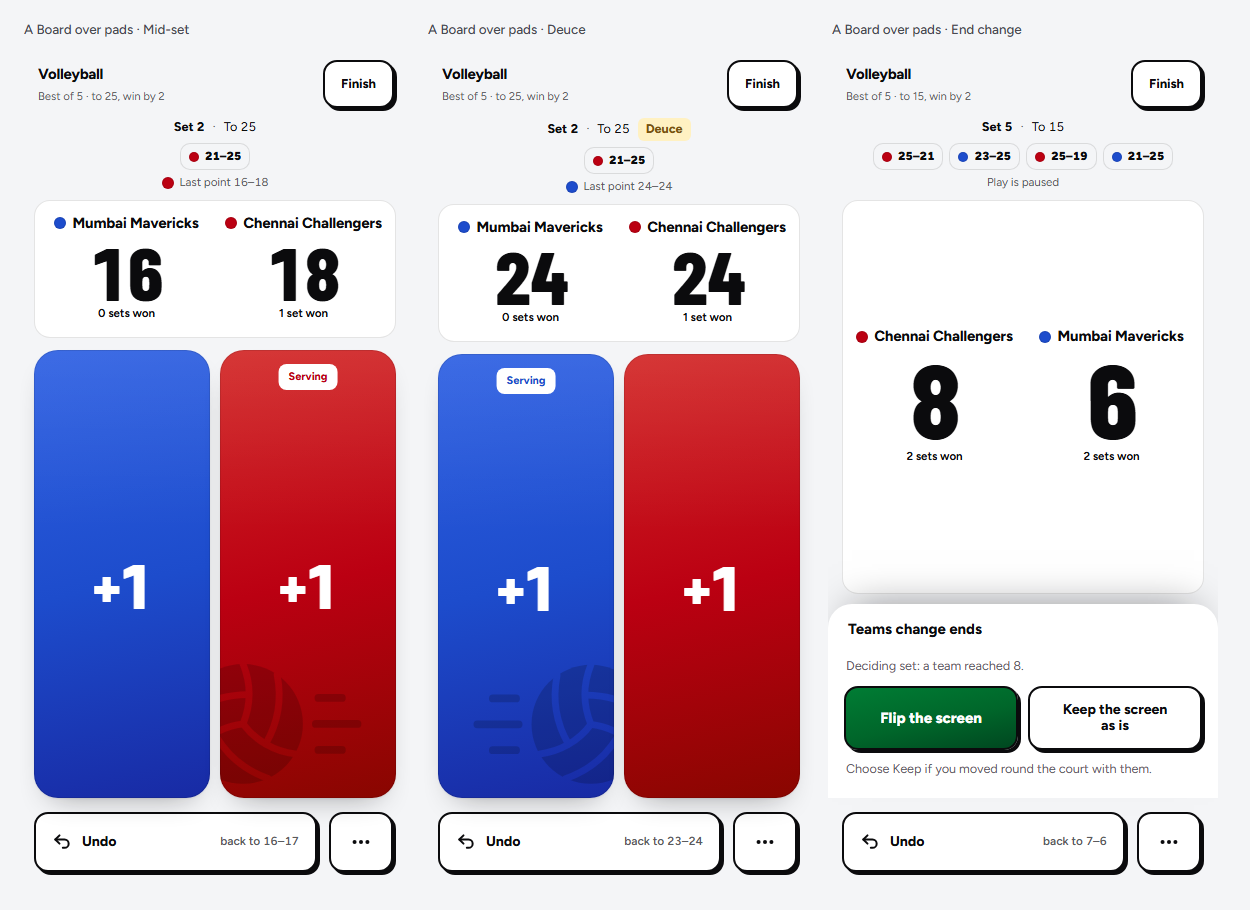
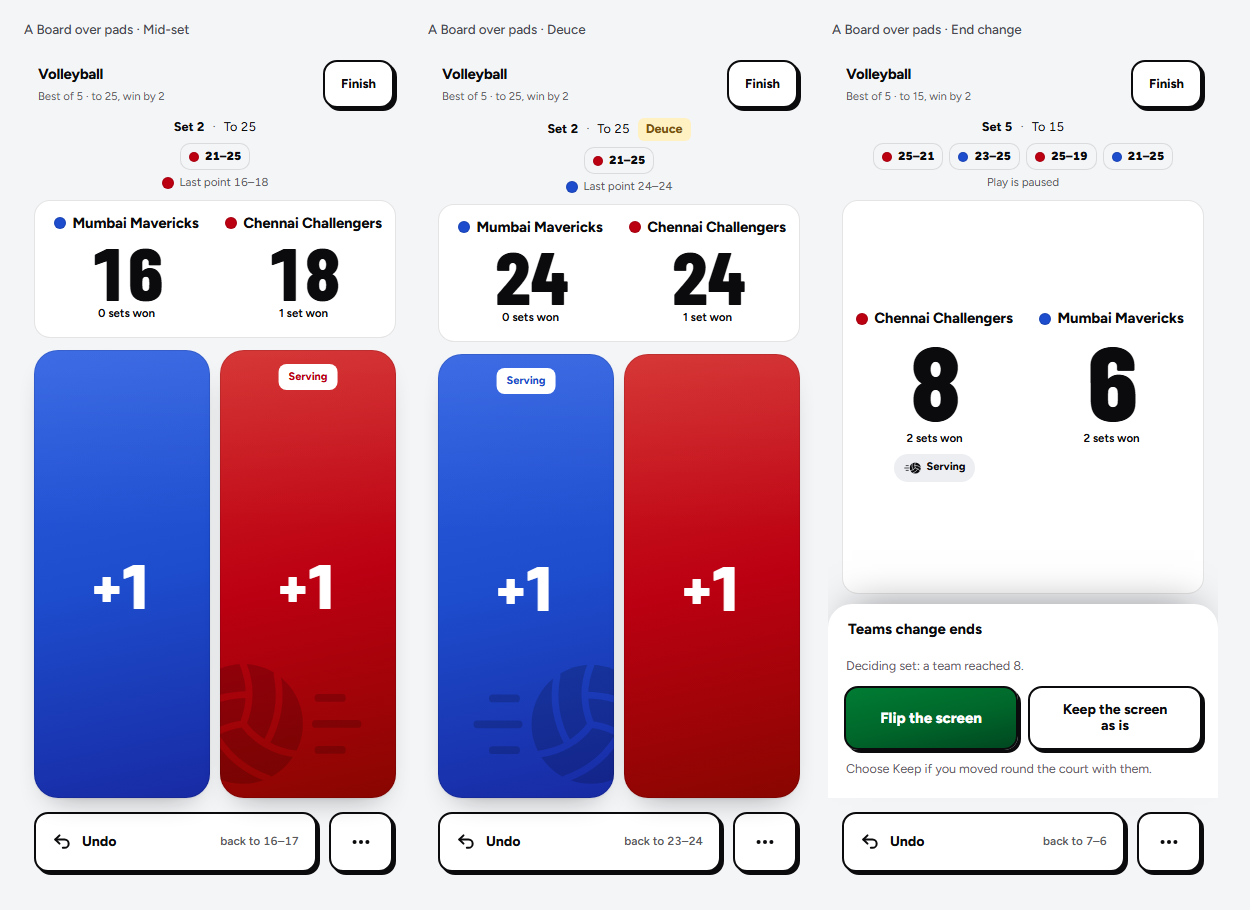
Sets prototype: keep the serve chip on A at end change and interval, drop Live badge at match over, equal name rows on A
A hid the serving pads during change and interval with no serve cue left; the board column
now keeps one serve chip. The spectator header shows Match over instead of Live once the
match ends. A's columns share row tracks so a two-line name at 360px keeps both scores level.

Changed region(s): [[0.6864, 0.3385, 0.9672, 0.5231]]

diff --git a/docs/plans/2026-11-13-board-redesign/sets/prototype.html b/docs/plans/2026-11-13-board-redesign/sets/prototype.html
@@ -2555,8 +2555,10 @@ body.bare .kd-frame { width: var(--fw, 390px); height: var(--fh, 844px); max-wid
 .kd .tsb-word { text-align: center; padding: 0 6px; line-height: 1.2; }
 
 /* A Board over pads */
-.kd-board { flex: none; display: grid; grid-template-columns: 1fr 1fr; gap: 10px; margin: 0 14px; padding: 10px 8px 12px; }
-.kd-col { display: flex; flex-direction: column; align-items: center; text-align: center; min-width: 0; padding: 4px 2px; }
+/* the two columns share four row tracks (name, score, word, chip), so a two-line name on one side
+   gives both name areas the same height and both scores the same baseline */
+.kd-board { flex: none; display: grid; grid-template-columns: 1fr 1fr; grid-template-rows: auto auto auto auto; column-gap: 10px; row-gap: 0; margin: 0 14px; padding: 10px 8px 12px; }
+.kd-col { display: grid; grid-row: span 4; grid-template-rows: subgrid; justify-items: center; align-items: center; text-align: center; min-width: 0; padding: 4px 2px; }
 .kd-col.is-pick { cursor: pointer; }
 .kd-colhead { display: flex; align-items: center; justify-content: center; max-width: 100%; }
 .kd-col .tsb-who { max-width: none; white-space: normal; overflow-wrap: anywhere; line-height: 1.15; text-align: center; }
@@ -3047,7 +3049,7 @@ function tapWord(st, t) {
 function header(st, o, finish = true) {
   const R = RULES[st.sport];
   const sub = st.phase === 'first' ? 'Pick the format and the first server' : `Best of ${st.bo} · to ${targetOf(st)}${R.cap ? ` · cap ${R.cap}` : `, win by ${R.winBy}`}`;
-  return `<header class="sb-top"><div class="sb-title"><b>${esc(R.title)}</b><small>${esc(sub)}</small></div>${o.live ? '<span class="sb-live">Live</span>' : ''}${finish ? `<button type="button" class="se-ctl sb-finish" data-act="finish"${st.phase === 'over' ? ' disabled' : ''}>Finish</button>` : ''}</header>`;
+  return `<header class="sb-top"><div class="sb-title"><b>${esc(R.title)}</b><small>${esc(sub)}</small></div>${o.live ? '<span class="sb-live">Live</span>' : o.ended ? '<span class="kit-live-paused">Match over</span>' : ''}${finish ? `<button type="button" class="se-ctl sb-finish" data-act="finish"${st.phase === 'over' ? ' disabled' : ''}>Finish</button>` : ''}</header>`;
 }
 
 function bar(st, o) {
@@ -3089,7 +3091,8 @@ function boardA(st) {
     const n = st.phase === 'over' ? st.wins[t] : t === 'A' ? st.a : st.b;
     let chip = '';
     if (st.phase === 'over' && st.winner === t) chip = '<span class="kit-chip">Winner</span>';
-    else if (st.phase === 'between') {
+    else if (st.phase === 'between' || st.phase === 'change' || st.phase === 'interval') {
+      // the pads are hidden while play is paused, so the board keeps the one serve chip
       const tg = serveTag(st, t);
       if (tg) chip = `<span class="kit-chip">${markSvg(st.sport)}${esc(tg)}</span>`;
       else if (pick) chip = '<span class="kit-chip">Tap to serve first</span>';
@@ -3224,7 +3227,6 @@ function liveView(st, o) {
   const hd = `<div class="kit-live-meta kd-lhead"><span>${R.unit} ${st.phase === 'over' ? st.games.length : st.g + 1}</span><span class="kd-lnums" style="grid-template-columns:${cols}">${st.games.map((_, i) => `<span>${i + 1}</span>`).join('')}${showNow ? '<span class="kd-nowlbl">Now</span>' : ''}</span></div>`;
   let foot = '';
   if (st.phase === 'first') foot = 'Match starts soon';
-  else if (st.phase === 'over') foot = 'Match over';
   else if (st.phase === 'between') foot = `Break. ${R.unit} ${st.g + 2} starts next`;
   const f = flagText(st);
   const paused = st.phase === 'change' ? 'End change' : st.phase === 'interval' ? 'Interval' : '';
@@ -3238,7 +3240,7 @@ function liveView(st, o) {
       <p class="kd-run">${n >= 2 ? `${sw(lw)}${n} in a row` : 'Points trading'}</p>`;
   }
   return `<div class="sb tsb kd kd-live" style="${teamStyle(st, o)}" data-phase="${st.phase}" data-sport="${st.sport}">
-    ${header(st, { ...o, live: true }, false)}
+    ${header(st, { ...o, live: st.phase !== 'over', ended: st.phase === 'over' }, false)}
     <div class="kd-livebody"><div class="kit-live-list">${hd}${row('A')}${row('B')}${footer}</div>
     <section class="sb-sheet-group kd-recent"><div class="kd-rhead"><b>Last 12 points</b><span class="kit-sub">oldest to newest</span></div>${recent}</section></div></div>`;
 }

diff --git a/docs/plans/2026-11-13-board-redesign/sets/README.md b/docs/plans/2026-11-13-board-redesign/sets/README.md
@@ -64,7 +64,9 @@ Nowhere new. Finish stays in the header, top right, the shipped `.se-ctl.sb-fini
 - The last-point line uses a swatch, not a team name.
 - Let (badminton, table tennis) sits in the bar between Undo and More. The More button is 56px wide there (it is 64px without Let), so Undo keeps its whole hint at 360px.
 - End change, between sets and match over dock above the bar instead of opening over the board.
-- At the break in A, "Serves first" is a chip in the board column, because the pads are gone then. In B it is the key tag.
+- In A, the pads are gone at the break, end change and interval, so the serve cue is one chip in the board column: "Serves first" at the break, "Serving" (with the court side or "1 of 2") at end change and interval. In B it is the key tag.
+- In A the two columns share their row heights, so a two-line team name at 360px does not push that team's score below the other.
+- The live view header shows the green Live badge while the match runs and the shipped `.kit-live-paused` label "Match over" once it ends.
 - The live view is built from Kit parts. No shipped Kit spectator scorecard exists yet, and the old spectator page is not a style source.
 - At 360px the B key names truncate with an ellipsis ("Chennai Challeng..."), as they do on today's board.
 
